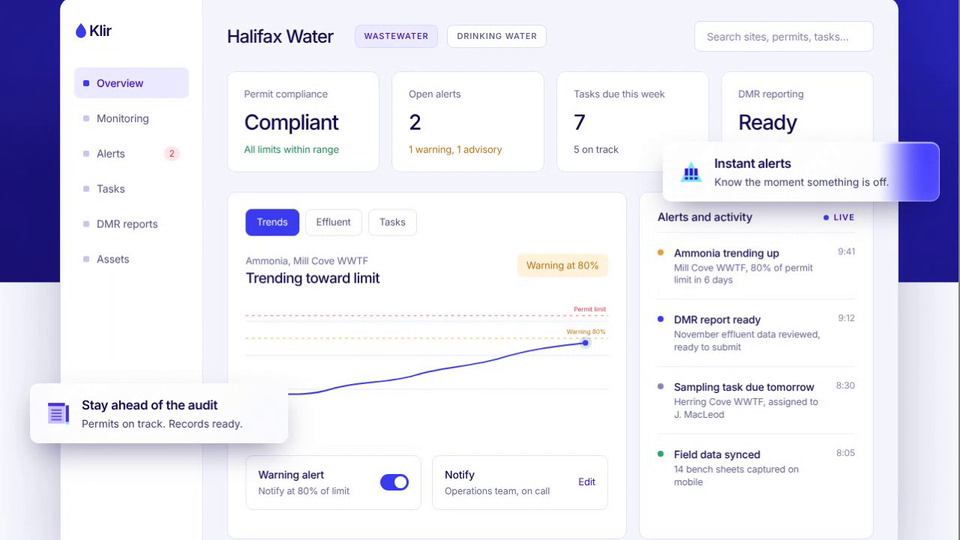
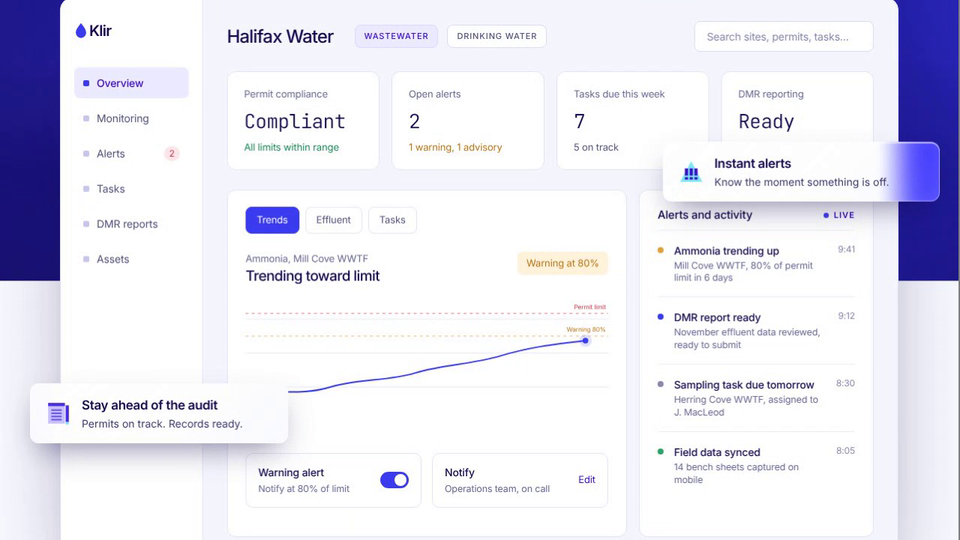
Klir Landing Page: thin mono figures in the dashboard cards
Claude-Session: https://claude.ai/code/session_01AHeBdxxJMjuAF9w67sWwW5

diff --git a/klir-landing-page/index.html b/klir-landing-page/index.html
@@ -110,7 +110,7 @@ footer p{font-size:clamp(18px,1.8vw,22px);letter-spacing:-.02em;max-width:30em;m
 .chip{border:1px solid #deddf3;background:#fff;border-radius:8px;padding:7px 12px;font-size:12px;font-weight:500;text-transform:uppercase;letter-spacing:.08em;color:#55547c}.chip.live{color:var(--indigo);background:#ecebff;border-color:#dcdaff}
 .srch{margin-left:auto;background:#fff;border:1px solid #deddf3;border-radius:8px;padding:9px 16px;color:#8a89ad;width:240px}
 .ks{display:grid;grid-template-columns:repeat(4,1fr);gap:16px}
-.k{background:#fff;border:1px solid #e6e5f6;border-radius:12px;padding:20px 22px;display:grid;gap:6px}.k small{color:#6b6a93;font-size:13px}.k b{font-size:28px;font-weight:500;letter-spacing:-.04em}.k span{font-size:13px;color:#55547c}.k .gr{color:#1b8a57}.k .am{color:#b9791a}
+.k{background:#fff;border:1px solid #e6e5f6;border-radius:12px;padding:20px 22px;display:grid;gap:6px}.k small{color:#6b6a93;font-size:13px}.k b{font-family:"JetBrains Mono","IBM Plex Mono","Courier New",ui-monospace,monospace;font-size:26px;font-weight:300;letter-spacing:-.02em}.k span{font-size:13px;color:#55547c}.k .gr{color:#1b8a57}.k .am{color:#b9791a}
 .body{display:grid;grid-template-columns:1.7fr 1fr;gap:16px}
 .panel,.feed{background:#fff;border:1px solid #e6e5f6;border-radius:12px;padding:22px 24px}
 .tabs{display:flex;gap:8px;margin-bottom:24px}.tabs span{padding:7px 14px;border-radius:8px;border:1px solid #e6e5f6;color:#55547c;font-size:13px}.tabs .on{background:var(--blue);color:#fff;border-color:var(--blue)}
@@ -172,7 +172,7 @@ footer p{font-size:clamp(18px,1.8vw,22px);letter-spacing:-.02em;max-width:30em;m
 .ui{position:absolute;z-index:2;left:9%;top:34%;width:96%;height:80%;background:#fff;border-radius:12px;box-shadow:0 20px 50px -20px rgba(14,5,70,.5);padding:16px 18px;font-size:13px;letter-spacing:-.01em;color:var(--navy);display:grid;gap:9px;align-content:start}
 .uih{display:flex;align-items:center;justify-content:space-between;gap:10px;padding-bottom:10px;border-bottom:1px solid #efeefa}.uih img{height:30px;width:auto}.uih small{color:#6b6a93;font-size:11.5px;text-align:right}
 .ur{display:grid;grid-template-columns:8px 1fr auto;gap:10px;align-items:center;background:#f6f7fd;border-radius:8px;padding:9px 12px}.ur i{width:8px;height:8px;border-radius:50%}.ur b{font-weight:500}.ur span{color:#6b6a93;font-size:12px}
-.fld{border:1px solid #cfcdea;border-radius:8px;padding:8px 12px}.fld small{display:block;color:#6b6a93;font-size:11.5px}.fld b{font-size:20px;font-weight:500}
+.fld{border:1px solid #cfcdea;border-radius:8px;padding:8px 12px}.fld small{display:block;color:#6b6a93;font-size:11.5px}.fld b{font-family:"JetBrains Mono","IBM Plex Mono","Courier New",ui-monospace,monospace;font-size:19px;font-weight:300}
 .ub{background:var(--blue);color:#fff;border-radius:8px;padding:9px;text-align:center;font-size:13px}
 .prog{height:8px;border-radius:4px;background:#efeefa;margin-top:4px}.prog i{display:block;height:100%;width:var(--w);border-radius:4px;background:var(--blue);transition:width 1.5s .9s cubic-bezier(.2,.7,.2,1)}
 .ec h3{font-size:clamp(22px,2.2vw,28px);font-weight:500;letter-spacing:-.035em;line-height:1.1;margin:28px 14px 12px}
